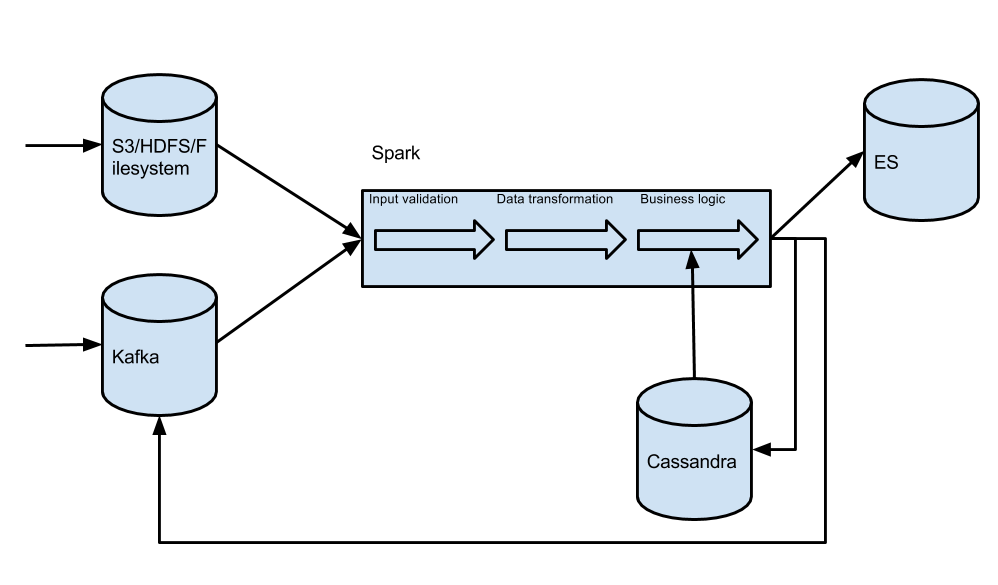
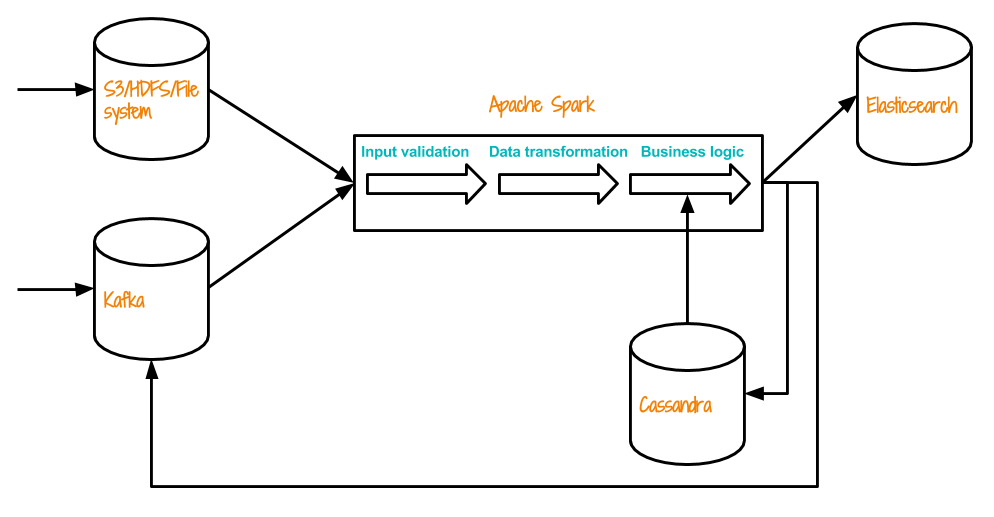
Abstract

diff --git a/financial-transaction-streaming/sensor-data.tex b/financial-transaction-streaming/sensor-data.tex
@@ -1,0 +1,66 @@
+
+\subsection{Sensor data}
+
+The sensors send the data to the mobile application over BLE. The protocol as well as the hardware architecture of the devices places restrictions on the sample width and sampling rate. BLE protocol specifies maximum \SI{80}{\byte} per message, and minimum duration of \SI{7.5}{\milli\second} between messages; this gives us theoretical maximum of \SI{10640}{\byte\per\second}. With one particular hardware / firmware implementation, we found that the effective reliable data transfer rate drops to only \SI{280}{\byte\per\second}. That particular device also lacked significant processing power. This gave us baseline protocol for 3-axis samples (such as acceleration or rotation), with \SI{20}{\byte} for header and \SI{5}{\byte} per sample. Packing the sample values into \SI{40}{\bit} gave us $3 \times$\SI{13}{\bit} and \SI{1}{\bit} for padding, and yielded code in \autoref{lst:threed-data}.
+
+\begin{lstlisting}[language=C,caption={BLE 3-axis data},label={lst:threed-data}]
+#define PACKED __attribute__((__packed__))
+
+struct PACKED threed_data {
+    int16_t x_val : 13;           // 13
+    int16_t y_val : 13;           // 26
+    int16_t z_val : 13;           // 39
+    int16_t _     : 1;            // 40
+};
+
+struct PACKED header {
+    uint16_t preamble;            // 2
+    uint8_t type_count;           // 3
+    uint8_t samples_per_second;   // 4
+    uint32_t timestamp;           // 12
+    uint32_t sample_count;        // 16
+    uint32_t type;                // 20
+};
+\end{lstlisting}
+
+The \lstinline{preamble} is a marker sequence, which also allows for detection of endian-ness; though all sensor data-collecting devices we have encountered so far are big endian. The payload consisting of \lstinline{header} followed by 50 samples of \lstinline{threed_data} results in \SI{270}{\byte\per\second} over the BLE connection. Note that the \lstinline{header} includes the \lstinline{timestamp}, which is a monotonously-increasing device time in milliseconds. The mobile application remembers the first seen \lstinline{timestamp} from each sensor for each exercise session, and uses this value to properly align the samples from the sensors. The sensors data includes quantisation error: at \SI{50}{\hertz} one sample represents \SI{20}{\milli\second} of real-time, but the difference of the \lstinline{timestamp}s may not be divisible by $20$. We found that it is sufficient to perform "round-even" correction of the received samples by evenly removing or duplicating the last sample in case of detected quantisation errors.
+
+Because the consumer-grade sensors often do not have enough processing and communication power to collect \& transmit the data without errors, the mobile application also has to pad missing values from the sensors in order to remain responsive and to be able to provide a full set of sensor values for subsequent processing. We found that for gaps less than \SI{200}{\milli\second}, it is sufficient to extrapolate the samples linearly between the sides of the gap regardless of sensor type. Longer gaps require special treatment in case of accelerometer, gyroscope and strain gauges in smart clothes: in these cases, the application uses the Kalman filter assuming constant acceleration of \SI{1}{\meter\second^{-2}} to extrapolate the values between the sides of the gap. The heart rate sensor does not suffer significant loss of accuracy for gaps up to \SI{15}{\second}.
+
+\begin{figure}[hb]
+	\begin{center}
+		\caption{Sensor fusion}
+		\label{fig:sensor-fusion}
+		\includegraphics[width=7cm,keepaspectratio]{ri-sensor-fusion.png}
+	\end{center}
+\end{figure}
+
+Once the sensor data from all sensors has been fused with respect to the sample time, the mobile application performs very simple signal processing: it smooths the signal by convolving it with a $3 \times 3$ kernel (\autoref{eq:smooth-kernel}).
+
+\begin{equation} \label{eq:smooth-kernel}
+	\begin{pmatrix}
+	  ^1/_{16} & ^1/_8 & ^1/_{16} \\
+	  ^1/_8    & ^1/_4 & ^1/_8    \\
+	  ^1/_{16} & ^1/_8 & ^1/_{16}
+	\end{pmatrix}
+\end{equation}
+
+Finally, the sensor data in the mobile application is a set of vectors containing 1 second of sensor input data, normalised to a range of $\interval[open]{-1}{1}$ by using a maximum reasonable value for acceleration, rotation, strain and heart rate. The maximum values are determined by the limitations of the sensor hardware together with reasonable limitations of human movement and together with the ranges of the protocol. For the three-value protocol used for the accelerometer and gyroscope data, and for the strain sensors, the limit of each element is the range of signed \SI{13}{\bit} integer: $\interval[open]{-4096}{4095}$. The unit of the measurement depends on the underlying sensor type: $0.01\ ms^{-2}$ for accelerometer, \SI{\pi/1800}{\radian\per\second} for gyroscope, TODO.
+
+The fused and normalised sensor data is then passed as a single vector to the inputs of a muti-layer perceptron. The architecture of the MLP is driven by the sensor data as its inputs; for example, accelerometer-only MLP has 150 inputs (50 samples of the acceleration vector), the subsequent layer has 45 rectifier units, then 40 rectifier units, ending up with 32 softmax units, where 32 is the number of recognised setup movements. The architecture of the MLP for a fully-wired human has 1200 inputs, 250 rectifier units, 100 rectifier units, ending up with 32 softmax units. It is important to measure and optimise the power requirements for the computation; on iOS, we took advantage of the vDSP and veclib frameworks, which offer optimised vector operations. The MLP classes are not the exercises themselves, but the setup movements; one setup movement can map to multiple exercises. To provide accurate prediction of the exercise about to be started, the mobile application takes into account the expected exercise (given the user's typical behaviour), and the fine-grained location data. The information available in this context
+
+\begin{table}[h]
+\caption{Evaluation of a CNN for exercise vs. non-exercise classification}
+\label{exercise}
+\begin{center}
+\begin{tabular}{|c||c||c|}
+\hline
+Actual / Predicted & Exercise & Non-exercise\\
+\hline
+Exercise & 12330 & 2305\\
+\hline
+Non-exercise & 3542 & 13412\\
+\hline
+\end{tabular}
+\end{center}
+\end{table}

diff --git a/financial-transaction-streaming/root.tex b/financial-transaction-streaming/root.tex
@@ -47,9 +47,9 @@ separator symbol =; ,
 
 %%%%%%%%%%%%%%%%%%%%%%%%%%%%%%%%%%%%%%%%%%%%%%%%%%%%%%%%%%%%%%%%%%%%%%%%%%%%%%%%
 \begin{abstract}
+This document describes distributed, large data volume stream processing architecture that was used in a real life production financial transaction processing system. The system receives input data from files at defined times and at the same time continuously ingests data from a streaming integration point, processes and transforms the data as a stream, validates them against known records and finally stores the results.
 
-TODO
-
+The document describes architecture, technology choices, explanation of system requirements such as data consistency, integrity, performance, fault tolerance or availability and how the selected technologies and their interoperability fulfil the requirements, focusing on Apache Spark. Finally scenarios where selected technologies and architecture can not be applied due to specific limitations are discussed.
 \end{abstract}
 
 
@@ -60,16 +60,13 @@ TODO
 This reference architecture uses Spark Core, Spark Streaming and Spark SQL.
 
 \subsection{Non Spark components}
-TODO: COMPLETE
 
-Apart from Apache Spark this reference architecture makes use of Cassandra, Kafka, S3, Elastic Search.
+Apart from Apache Spark this reference architecture makes use of Cassandra, Kafka, Filesystem, S3 and Elasticsearch.
 
 \subsection{Resource manager}
 For automated deployment, infrastructure and operations and resource management Mesosphere Datacenter Operating System (CS/OS) is used.
 
 \section{Reference implementation}
-
-This architecture was used in a financial transaction processing system. The system receives input data from files at defined times and continuously receives data from a streaming integration point, processes and transforms the data, validates them against known records and finally stores the results.
 
 The application receives multiple types of inputs. One are files from other financial institution uploaded at defined times to an integration point and containing a set of transactions. The other one is integration with other systems through Apache Kafka. The records are processed, validated against known data stored in Cassandra database, transformed and finally stored in Cassandra and relevant information sent to integration points with other internal systems. In addition generation of reports from the stored result data is required. The application has strict requirements for uptime, availability, consistency, data integrity, scalability and cost optimisation while ideally using OS technologies. For those reasons Mesosphere DSOS was chosen for infrastructure automation, cluster and resource management.
 
